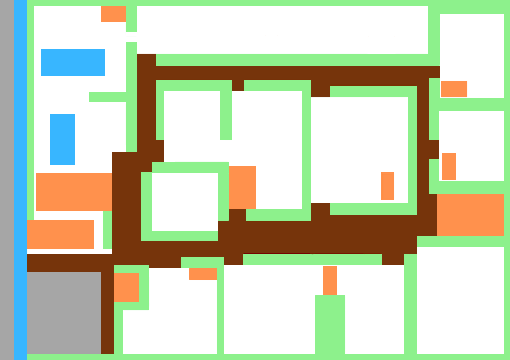
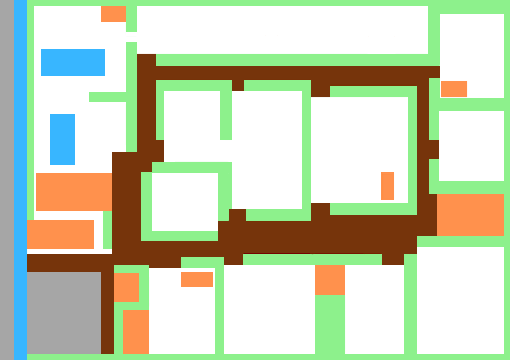
Refactor generateList.py to include family information in generated places

diff --git a/src-py/commands/main.py b/src-py/commands/main.py
@@ -1,10 +1,11 @@
-import cv2
+from findPoint import findB, findC
+from checkColors import checkColor
+from generateList import generatePlaces, generateJSON
+from checkFamily import checkFamily
 import numpy as np
+import cv2
 import itertools
 import random
-from findPoint import findB, findC
-from checkColors import checkColorHorizontal, checkColorVertical
-from generateList import generatePlaces, generateJSON
 
 # get the image and resize
 img = cv2.imread("assets/MapOld.png")
@@ -22,102 +23,122 @@ upper_white = np.array([255, 15, 255])
 mask = cv2.inRange(hsv, lower_white, upper_white)
 res = cv2.bitwise_and(img, img, mask=mask)
 
-# get the corners
+# change image to gray to get rid of unneeded colors
 gray = cv2.cvtColor(res, cv2.COLOR_BGR2GRAY)
-gray = np.float32(gray)
 
-corners = cv2.goodFeaturesToTrack(gray, 0, 0.001, 10)
-corners = np.intp(corners)
 
-coordinatesRange = 5
+def process_image(img, gray):
+    gray = np.float32(gray)
 
-cornerArray = []
-areas = []
+    # get the corners
+    corners = cv2.goodFeaturesToTrack(gray, 0, 0.001, 10)
+    corners = np.intp(corners)
 
-for cornera in corners:
-    x, y = cornera.ravel()
-    if (
-        np.array_equal(img[y, x], np.array([77, 145, 255])) == True
-        or np.array_equal(img[y, x], np.array([255, 182, 56])) == True
-    ):
-        continue
-    else:
-        cornerArray.append([x, y])
-cornerArray.sort()
+    cornerArray = []
+    areas = []
 
-# make sure there aren't any duplicates
-list(k for k, _ in itertools.groupby(cornerArray))
-
-for c in cornerArray:
-    xa, ya = c
-    cv2.circle(img, (xa, ya), 1, 255, -1)
-    options = []
-    for cb in cornerArray:
-        xb, yb = cb
-        coords = findB(ya, xb, yb)
-        if coords == None:
+    for corner in corners:
+        x, y = corner.ravel()
+        if np.array_equal(img[y, x], np.array([77, 145, 255])) or np.array_equal(
+            img[y, x], np.array([255, 182, 56])
+        ):
             continue
         else:
-            xc, yc = coords
-            options.append([xc, yc])
+            cornerArray.append([x, y])
+    cornerArray.sort()
 
-    for option in options:
-        xd, yd = option
-        res = checkColorHorizontal(xa, xd, yd, imgLine)
-        if option[0] == xa:
-            options.remove(option)
-            continue
-        if res == True:
-            options.remove(option)
-            continue
+    # Remove duplicates
+    cornerArray = list(k for k, _ in itertools.groupby(cornerArray))
 
-    if options == []:
-        continue
-    else:
-        xb, yb = options[0]
-        if xb == xa:
-            continue
-        res2 = findC(xb, yb, cornerArray)
-        if res2 == False:
-            continue
-        if res2 == None:
-            continue
-        else:
-            xc, yc = res2
-            if checkColorVertical(yb, yc, xc, imgLine) == True:
-                continue
-            elif checkColorHorizontal(xa, xc, yc, imgLine) == True:
-                continue
-            else:
-                middleX = xa + ((xc - xa) / 2)
-                middleY = ya + ((yc - ya) / 2)
-                font = cv2.FONT_HERSHEY_SIMPLEX
-                red = random.randint(0, 255)
-                areaNumber = len(areas) + 1
-                cv2.putText(
-                    imgLine,
-                    str(areaNumber),
-                    (xa, ya),
-                    font,
-                    0.2,
-                    (0, 0, 0),
-                    1,
-                    cv2.LINE_AA,
-                )
-                cv2.rectangle(imgLine, (xa, ya), (xc, yc), (0, 0, 0), 1)
-                
-                areas.append([areaNumber, [xa, ya], [xb, yb], [xc, yc], [xd, yd]])
-                generatePlaces([areaNumber, [[xa, ya], [xb, yb], [xc, yc], [xd, yd]]])
-                
-# generate the json file
-generateJSON()
+    for c in cornerArray:
+        # get the x and y coordinates
+        x, y = c
 
-# show fields
-cv2.imshow("yes", imgLine)
-cv2.imshow("yes2", img)
-cv2.imwrite("assets/optimised/(3)lines.png", imgLine)
-cv2.imshow("corners", img)
-cv2.imwrite("assets/optimised/(2)points.png", img)
+        # draw the points on the image
+        font = cv2.FONT_HERSHEY_SIMPLEX
+        options = [cb for cb in cornerArray if findB(y, cb[0], cb[1]) is not None]
+
+        new_options = []
+        for option in options:
+            xd, yd = option
+            if xd != x and not checkColor(x, xd, yd, imgLine, "horizontal"):
+                new_options.append(option)
+
+        options = new_options
+        # check if there are any options left and get the B coordinate
+        for option in options:
+            # get the x and y coordinates
+            xd, yd = option
+
+            # check if the line is matching bad colors
+            res = checkColor(x, xd, yd, imgLine, "horizontal")
+
+            # remove the option if it is the same point or if the line is matching bad colors
+            if option[0] == x or res == True:
+                options.remove(option)
+
+        # check if there are any options left
+        if options:
+            # get the x and y coordinates
+            xb, yb = options[0]
+            # check if the line is not on the same point
+            if xb != x:
+                # check if the line is matching bad colors
+                res2 = findC(xb, yb, cornerArray)
+                if (
+                    res2
+                    and not checkColor(yb, res2[1], res2[0], imgLine, " vertical")
+                    and not checkColor(y, res2[1], x, imgLine, "vertical")
+                    and not checkColor(x, res2[0], res2[1], imgLine, "horizontal")
+                ):
+                    # create a number for the area and draw it
+                    areaNumber = len(areas) + 1
+                    cv2.putText(
+                        imgLine,
+                        str(areaNumber),
+                        (x, y),
+                        font,
+                        0.2,
+                        (0, 0, 0),
+                        1,
+                        cv2.LINE_AA,
+                    )
+
+                    area = [areaNumber, [[x, y], [xb, yb], res2, [x, res2[1]]]]
+
+                    if checkFamily(area):
+                        cv2.rectangle(
+                            imgLine, (x, y), (res2[0], res2[1]), (255, 0, 0), 1
+                        )
+                    else:
+                        cv2.rectangle(imgLine, (x, y), (res2[0], res2[1]), (0, 0, 0), 1)
+                    # draw the rectangle
+
+                    # add the area to the list and generate the places
+                    area.append(checkFamily(area))
+                    generatePlaces(area)
+                    areas.append(area)
+
+    generateJSON()
+
+    # show the image
+    cv2.imshow("yes", imgLine)
+    cv2.imshow("yes2", img)
+    cv2.imwrite("assets/optimised/(3)lines.png", imgLine)
+    cv2.imshow("corners", img)
+    cv2.imwrite("assets/optimised/(2)points.png", img)
+
+
+# main function
+def main():
+    process_image(img, gray)
+
+    cv2.waitKey(0)
+    cv2.destroyAllWindows()
+
+
+if __name__ == "__main__":
+    main()
 
 cv2.waitKey(0)
 cv2.destroyAllWindows()

diff --git a/src-py/commands/generateList.py b/src-py/commands/generateList.py
@@ -3,11 +3,9 @@ import json
 
 data = {}
 
-def getPlaces(areaNumber, area):
-    a = area[0]
-    b = area[1]
-    c = area[2]
-    d = area[3]
+
+def getPlaces(areaNumber, area, family):
+    a, b, c, d = area
 
     # get the width and height of the area
     width = math.sqrt((b[0] - a[0]) ** 2)
@@ -15,28 +13,36 @@ def getPlaces(areaNumber, area):
     fullArea = width * height
 
     # get the number of places that can be placed in the area
-    divider = 120
+    divider = 300
     availablePlaces = math.floor(fullArea / divider)
 
     # give each available place a number and set it to accupied
     placeNumbers = []
     for i in range(availablePlaces):
-        placeNumbers.append({"place nummber": i, "accupied": False,})
-    
+        placeNumbers.append(
+            {
+                "place nummber": i,
+                "occupied": False,
+                "family": family,
+            }
+        )
+
     # return the list of places
     return placeNumbers
 
+
 def generatePlaces(area):
-    print(area)
     areaNumber = area[0]
     areas = area[1]
-    
-    places = getPlaces(areaNumber, areas)
+    family = area[2]
+
+    places = getPlaces(areaNumber, areas, family)
     # add places to data
     data[areaNumber] = places
 
-# function to generate a json file with the list of places 
+
+# function to generate a json file with the list of places
 def generateJSON():
-    with open('places.json', 'w') as outfile:
+    with open("places.json", "w") as outfile:
         json.dump(data, outfile)
     return data
